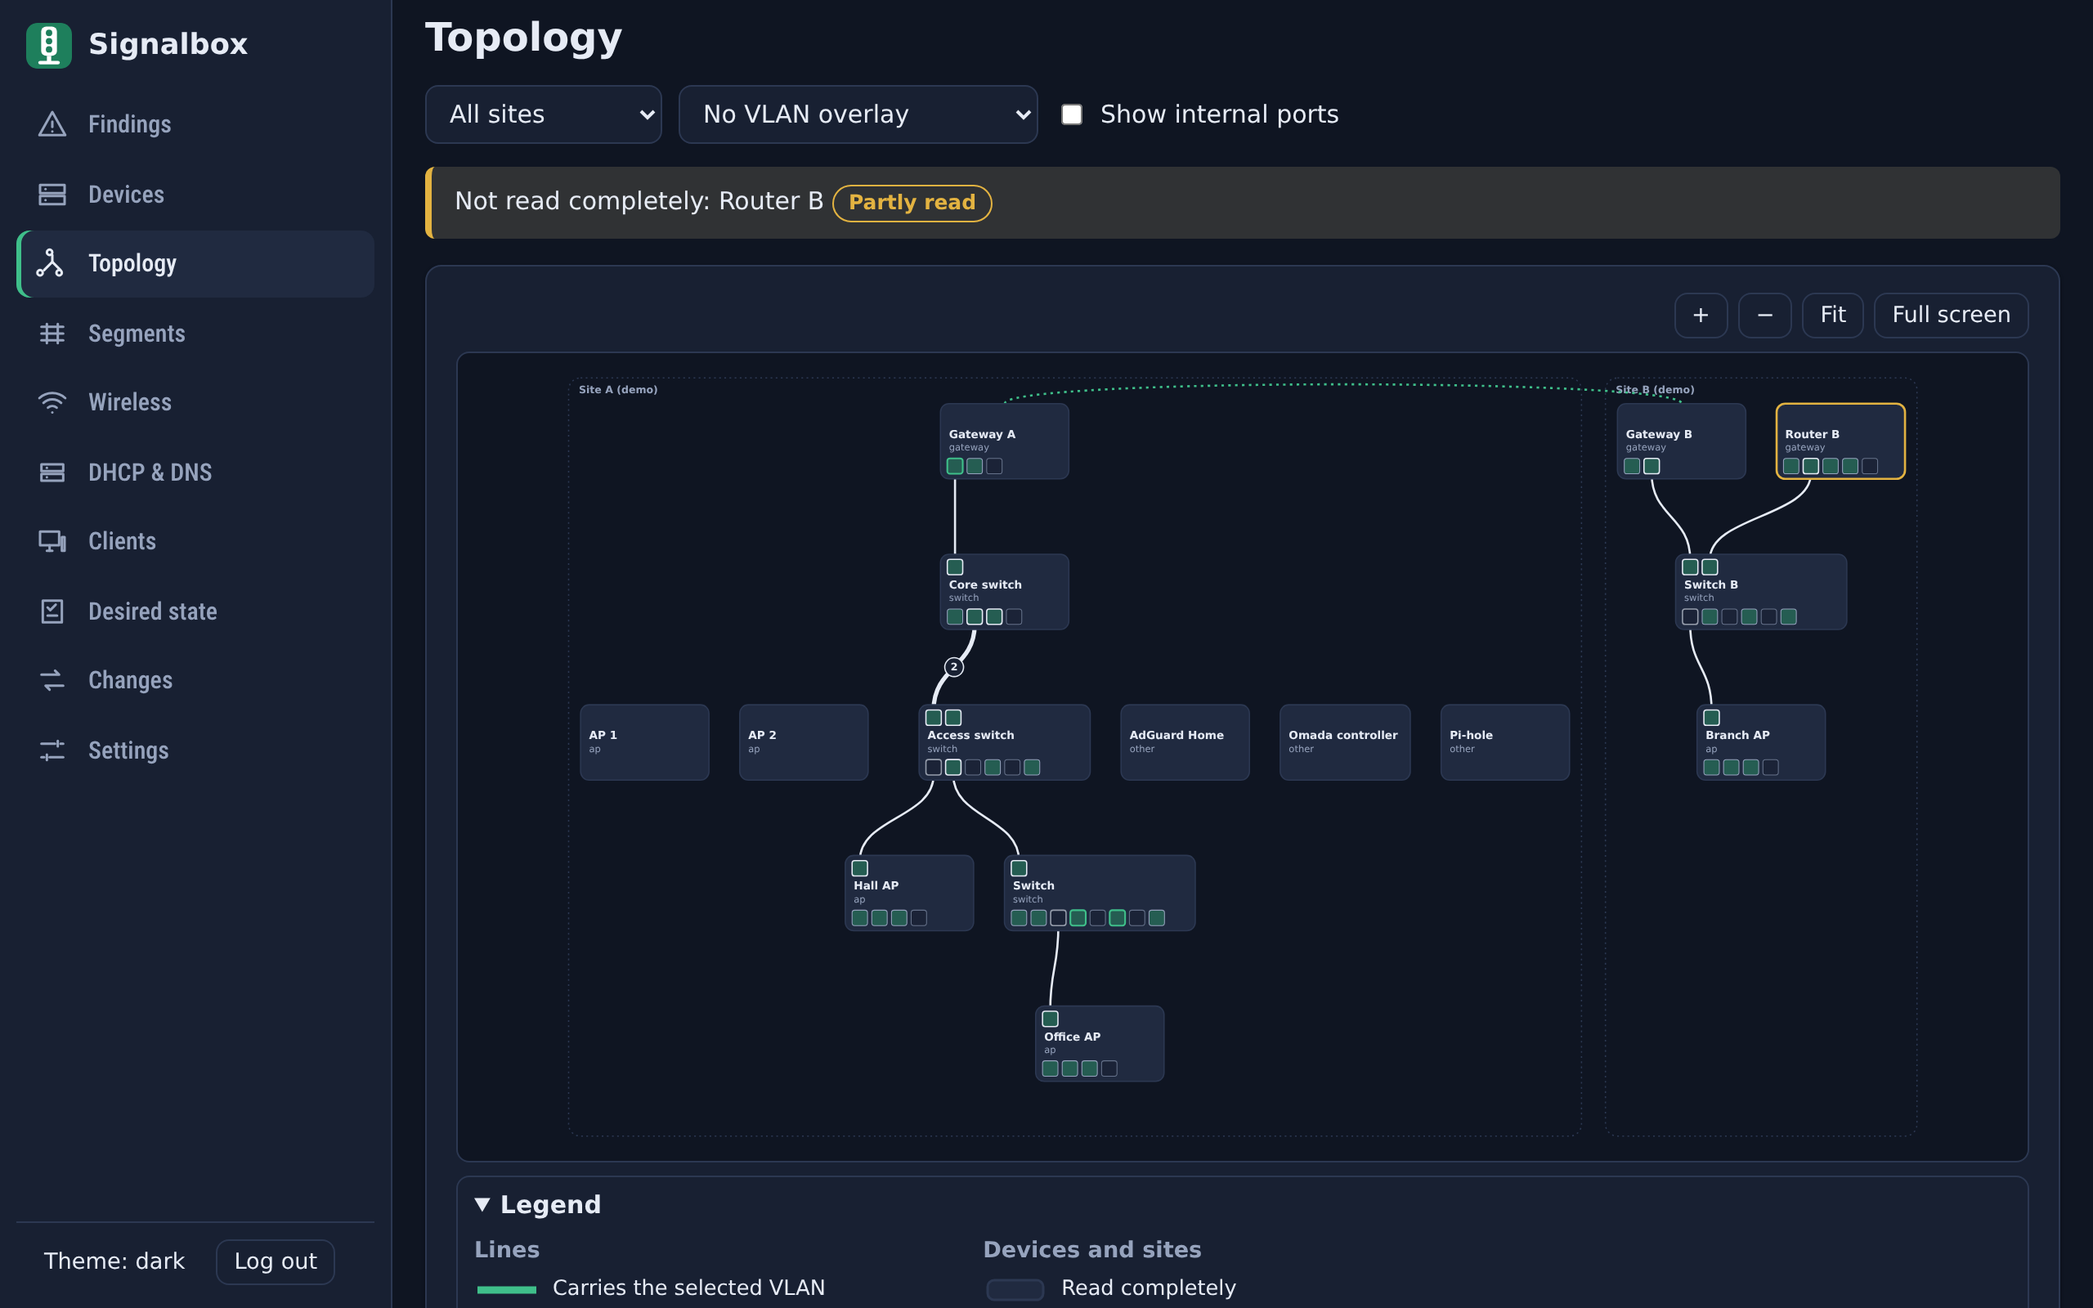
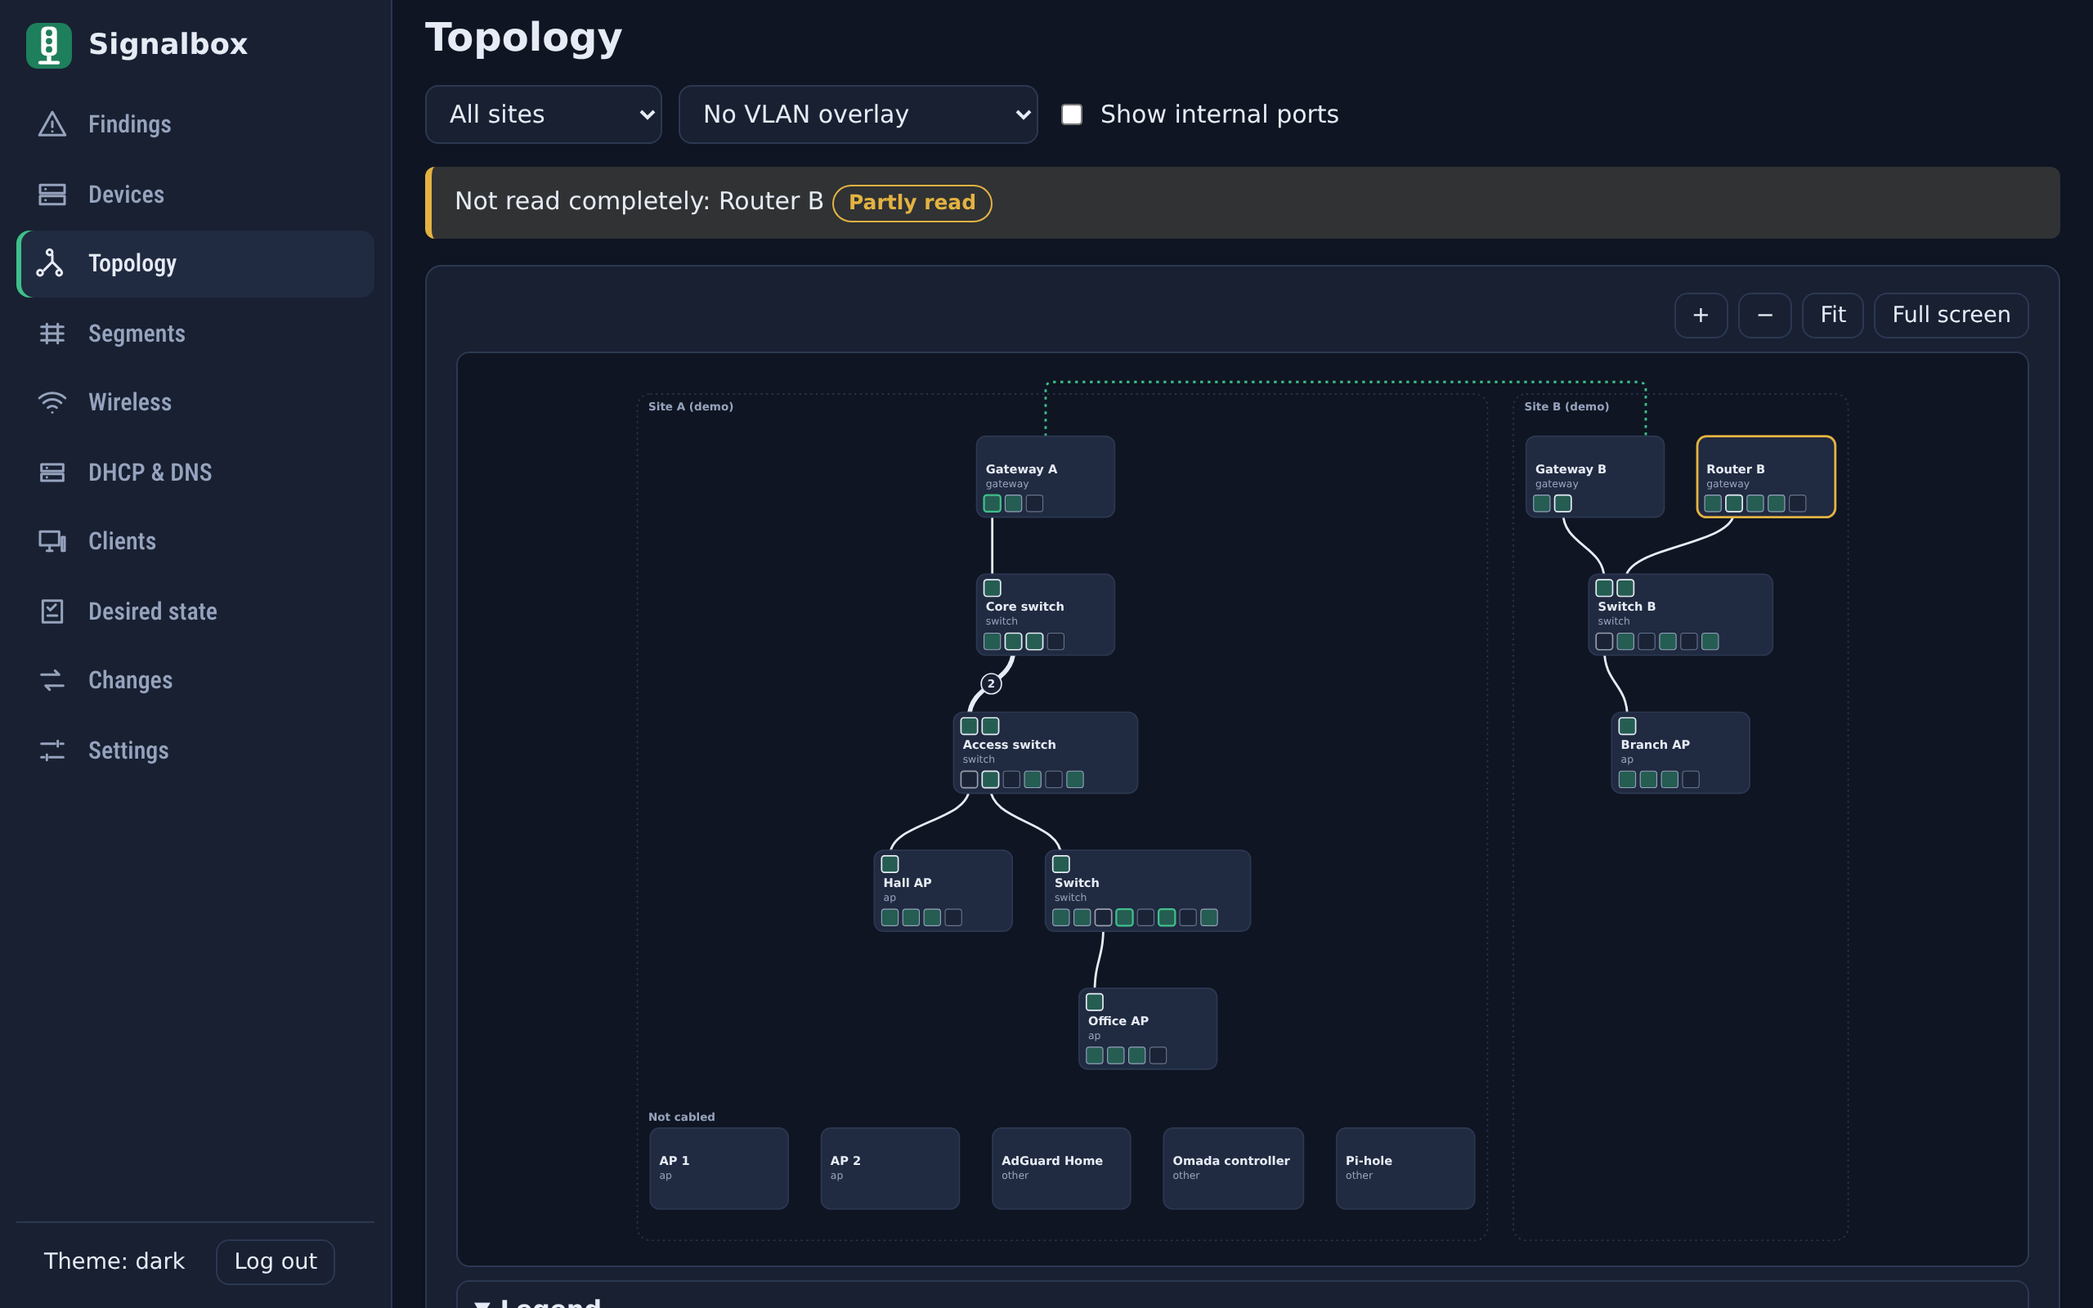
Topology: uncabled strip, VPN lanes above site titles, larger fit (#328)
- Devices without cables go into a labelled "Not cabled" strip at the bottom of their site
- VPN arcs run in lanes above the site frames; their legs avoid the site titles
- Site frames are as wide as their content; Fit may enlarge up to 1.8x
- Layout tests for uncabled grouping and VPN label clearance; screenshots refreshed

diff --git a/src/signalbox/web/static/topolayout.js b/src/signalbox/web/static/topolayout.js
@@ -15,8 +15,7 @@ export const TIER = { remote: 0, gateway: 1, switch: 2, ap: 3, other: 3 };
 const GAP = 36; // between two devices of a layer
 const DUMMY_GAP = 14;
 const DUMMY_W = 6;
-const ROW = 176; // distance of two layers
-const TOP = 36; // room for VPN arcs and site titles above the first layer
+const ROW = 150; // distance of two layers
 const SITE_GAP = 56;
 const SWEEPS = 14;
 
@@ -223,9 +222,40 @@ function layoutSite(siteNodes, rank, pairs, byId) {
   return { cx, min, max, dummies, crossings, layers };
 }
 
-export function layoutTopology({ nodes, edges }) {
+const TITLE_PAD = 24;
+const titleWidth = (name) => Math.round(String(name).length * 7.4 + TITLE_PAD);
+const STRIP_MAX = 900; // widest row of the "not cabled" strip when the cabled tree is narrower
+const STRIP_LABEL = 34; // room for the strip label above its first row
+const LANE = 9; // distance of two VPN lanes above the site frames
+
+// Devices that no cable or tunnel reaches (gateways stay in the tree: they are its top).
+function isUncabled(n, linked) {
+  return !linked.has(n.id) && (TIER[n.role] ?? 3) > 1;
+}
+
+// Rows of the "not cabled" strip, wrapped at maxW.
+function stripRows(items, maxW) {
+  const rows = [];
+  let row = [];
+  let w = 0;
+  for (const n of items) {
+    const add = (row.length ? GAP : 0) + n.w;
+    if (row.length && w + add > maxW) (rows.push(row), (row = []), (w = 0));
+    w += (row.length ? GAP : 0) + n.w;
+    row.push(n);
+  }
+  if (row.length) rows.push(row);
+  return rows.map((r) => ({ items: r, w: r.reduce((a, n, i) => a + n.w + (i ? GAP : 0), 0) }));
+}
+
+// siteNames {id: title} only sizes the site titles, which the VPN arcs must stay clear of.
+export function layoutTopology({ nodes, edges, siteNames = {} }) {
   const byId = new Map(nodes.map((n) => [n.id, n]));
-  const rank = assignRanks(nodes, edges);
+  const linked = new Set();
+  for (const e of edges) if (e.a !== e.b && byId.has(e.a) && byId.has(e.b)) (linked.add(e.a), linked.add(e.b));
+  const loose = new Set(nodes.filter((n) => isUncabled(n, linked)).map((n) => n.id));
+  const treeNodes = nodes.filter((n) => !loose.has(n.id));
+  const rank = assignRanks(treeNodes, edges);
   // one pair per two devices, however many cables
   const pairMap = new Map();
   for (const e of [...edges].sort((x, y) => cmp(x.id, y.id))) {
@@ -237,34 +267,86 @@ export function layoutTopology({ nodes, edges }) {
   }
   const pairs = [...pairMap.values()].sort((x, y) => cmp(x.key, y.key));
   const siteIds = [...new Set(nodes.map((n) => n.site || ''))].sort(cmp);
-  const out = { nodes: {}, routes: {}, pairs: pairs.map((p) => ({ key: p.key, a: p.a, b: p.b, edges: p.edges.map((e) => e.id) })), sites: [], width: 0, height: 0, crossings: 0, ranks: 0 };
-  let x0 = 20;
+  const out = { nodes: {}, routes: {}, pairs: pairs.map((p) => ({ key: p.key, a: p.a, b: p.b, edges: p.edges.map((e) => e.id) })), sites: [], vpns: [], width: 0, height: 0, crossings: 0, ranks: 0, frameY: 6, titleY: 24, uncabled: 0 };
+  // tunnels between devices of one layer are drawn as arcs in lanes above the site frames
+  const arcs = edges.filter((e) => e.kind === 'vpn' && byId.has(e.a) && byId.has(e.b) && !loose.has(e.a) && !loose.has(e.b) && rank.get(e.a) === rank.get(e.b));
+  const lanes = arcs.length ? 10 + arcs.length * LANE : 0;
+  const frameY = lanes ? lanes + 4 : 6;
+  const titleY = frameY + 18;
+  const top = frameY + 46;
+  out.frameY = frameY;
+  out.titleY = titleY;
+  const maxH = Math.max(0, ...nodes.map((n) => n.h));
   let maxRank = 0;
+  const parts = [];
   for (const site of siteIds) {
-    const members = nodes.filter((n) => (n.site || '') === site);
+    const members = treeNodes.filter((n) => (n.site || '') === site);
     const sitePairs = pairs.filter((p) => (byId.get(p.a).site || '') === site && (byId.get(p.b).site || '') === site);
-    const lay = layoutSite(members, rank, sitePairs, byId);
-    const dx = x0 - lay.min;
+    const lay = members.length ? layoutSite(members, rank, sitePairs, byId) : { cx: new Map(), min: 0, max: 0, dummies: new Map(), crossings: 0 };
+    for (const n of members) maxRank = Math.max(maxRank, rank.get(n.id));
+    const treeW = members.length ? lay.max - lay.min : 0;
+    const items = nodes.filter((n) => loose.has(n.id) && (n.site || '') === site).sort((x, y) => cmp(`${x.role}\u0000${x.name || ''}\u0000${x.id}`, `${y.role}\u0000${y.name || ''}\u0000${y.id}`));
+    const rows = stripRows(items, Math.max(treeW, STRIP_MAX));
+    const stripW = Math.max(0, ...rows.map((r) => r.w));
+    const title = titleWidth(siteNames[site] || site);
+    parts.push({ site, members, sitePairs, lay, treeW, rows, w: Math.max(treeW, stripW, title) });
+  }
+  const treeBottom = treeNodes.length ? top + maxRank * ROW + maxH : top - STRIP_LABEL;
+  const stripTop = treeBottom + 40;
+  let x0 = 20;
+  let bottom = treeBottom;
+  for (const part of parts) {
+    const { site, members, sitePairs, lay, rows } = part;
+    const dx = x0 + (part.w - part.treeW) / 2 - lay.min;
     for (const n of members) {
       const r = rank.get(n.id);
-      maxRank = Math.max(maxRank, r);
-      out.nodes[n.id] = { x: lay.cx.get(n.id) - n.w / 2 + dx, y: TOP + r * ROW, w: n.w, h: n.h, rank: r, site };
+      out.nodes[n.id] = { x: lay.cx.get(n.id) - n.w / 2 + dx, y: top + r * ROW, w: n.w, h: n.h, rank: r, site };
     }
     for (const p of sitePairs) {
+      if (loose.has(p.a) || loose.has(p.b)) continue;
       const chain = lay.dummies.get(p.key) || [];
       const upper = rank.get(p.a) <= rank.get(p.b) ? p.a : p.b;
-      const lower = upper === p.a ? p.b : p.a;
       const r0 = rank.get(upper);
-      out.routes[p.key] = chain.map((id, i) => ({ x: lay.cx.get(id) + dx, y: TOP + (r0 + 1 + i) * ROW + byId.get(upper).h / 2 }));
+      out.routes[p.key] = chain.map((id, i) => ({ x: lay.cx.get(id) + dx, y: top + (r0 + 1 + i) * ROW + byId.get(upper).h / 2 }));
       out.routes[p.key].upper = upper;
-      void lower;
     }
-    out.sites.push({ id: site, x: x0 - 14, w: lay.max - lay.min + 28 });
+    let strip = null;
+    if (rows.length) {
+      let y = stripTop + 24;
+      strip = { x: x0, y: stripTop, count: 0 };
+      rows.forEach((row, ri) => {
+        let x = x0 + (part.w - row.w) / 2;
+        for (const n of row.items) {
+          out.nodes[n.id] = { x, y, w: n.w, h: n.h, rank: maxRank + 1 + ri, site };
+          x += n.w + GAP;
+          strip.count++;
+        }
+        y += maxH + 22;
+      });
+      bottom = Math.max(bottom, y - 22);
+      out.uncabled += strip.count;
+    }
+    const sname = siteNames[site] || site;
+    out.sites.push({ id: site, x: x0 - 14, w: part.w + 28, strip, title: { x: x0 - 2, y: titleY - 14, w: titleWidth(sname), h: 20 } });
     out.crossings += lay.crossings;
-    x0 += lay.max - lay.min + SITE_GAP;
+    x0 += part.w + SITE_GAP;
   }
+  // the arcs: the start of a wire is moved sideways when it would run through a site title
+  const startX = (id) => {
+    const b = out.nodes[id];
+    let x = b.x + b.w / 2;
+    const t = out.sites.find((s) => s.id === (b.site || ''))?.title;
+    if (t && x > t.x - 8 && x < t.x + t.w + 8) {
+      const right = t.x + t.w + 12;
+      x = right <= b.x + b.w - 10 ? right : Math.max(b.x + 10, t.x - 12);
+    }
+    return x;
+  };
+  [...arcs]
+    .sort((p, q) => Math.abs(out.nodes[q.a].x - out.nodes[q.b].x) - Math.abs(out.nodes[p.a].x - out.nodes[p.b].x) || cmp(p.id, q.id))
+    .forEach((e, i) => out.vpns.push({ id: e.id, a: e.a, b: e.b, ax: startX(e.a), bx: startX(e.b), y: 10 + i * LANE, ay: out.nodes[e.a].y, by: out.nodes[e.b].y }));
   out.width = Math.max(320, x0 - SITE_GAP + 20);
-  out.height = TOP + maxRank * ROW + Math.max(0, ...nodes.map((n) => n.h)) + 70;
+  out.height = bottom + 40;
   out.ranks = maxRank + 1;
   return out;
 }

diff --git a/src/signalbox/web/static/views/topology.js b/src/signalbox/web/static/views/topology.js
@@ -67,6 +67,7 @@ function drawGraph(data, nodes, onPort, siteNames) {
   const sized = nodes.map((n) => ({ id: n.id, name: n.name, role: n.role, site: n.site_id || '', w: Math.max(150, ports.get(n.id).length * (PORT + PORT_GAP) + 16, n.name.length * 8 + 24), h: BOX_H }));
   const lay = layoutTopology({
     nodes: sized,
+    siteNames,
     edges: [...cables, ...tunnels].map((e) => ({ id: e.id, a: e.a.device_id, b: e.b.device_id, kind: e.kind, up: e.a.uplink && !e.b.uplink ? 'a' : e.b.uplink && !e.a.uplink ? 'b' : null })),
   });
   const rankOf = (id) => lay.nodes[id].rank;
@@ -105,7 +106,13 @@ function drawGraph(data, nodes, onPort, siteNames) {
   place(vp, frameLayer, edgeLayer, nodeLayer, markLayer);
   if (lay.sites.length > 1) {
     for (const site of lay.sites) {
-      place(frameLayer, s('rect', { x: String(site.x), y: '6', width: String(site.w), height: String(lay.height - 12), rx: '14', class: 'site-frame', 'data-testid': 'topo-site' }), s('text', { x: String(site.x + 12), y: '24', class: 'site-name' }, siteNames[site.id] || site.id));
+      place(frameLayer, s('rect', { x: String(site.x), y: String(lay.frameY), width: String(site.w), height: String(lay.height - lay.frameY - 6), rx: '14', class: 'site-frame', 'data-testid': 'topo-site' }), s('text', { x: String(site.x + 12), y: String(lay.titleY), class: 'site-name' }, siteNames[site.id] || site.id));
+    }
+  }
+  // the devices no cable reaches sit in a labelled strip at the bottom of their site
+  for (const site of lay.sites) {
+    if (site.strip) {
+      place(frameLayer, s('text', { x: String(site.x + 12), y: String(site.strip.y + 16), class: 'strip-name', 'data-testid': 'topo-uncabled' }, t('topology.notCabled')));
     }
   }
   const links = new Map(nodes.map((n) => [n.id, { edges: [], near: new Set() }]));
@@ -115,6 +122,7 @@ function drawGraph(data, nodes, onPort, siteNames) {
     links.get(a).near.add(b);
     links.get(b).near.add(a);
   };
+  const vpnArc = new Map(lay.vpns.map((v) => [v.id, v]));
   // tunnels: an arc over the boxes, or a wire down from an unmanaged site
   for (const e of tunnels) {
     const ba = lay.nodes[e.a.device_id];
@@ -125,6 +133,11 @@ function drawGraph(data, nodes, onPort, siteNames) {
       const [hi, lo] = rankOf(e.a.device_id) < rankOf(e.b.device_id) ? [ba, bb] : [bb, ba];
       const key = [e.a.device_id, e.b.device_id].sort().join('|');
       d = smooth([{ x: hi.x + hi.w / 2, y: hi.y + BOX_H }, ...(lay.routes[key] || []), { x: lo.x + lo.w / 2, y: lo.y }]);
+    } else if (vpnArc.has(e.id)) {
+      const v = vpnArc.get(e.id);
+      const r = 8;
+      const dir = v.bx > v.ax ? 1 : -1;
+      d = `M${v.ax},${v.ay} V${v.y + r} Q${v.ax},${v.y} ${v.ax + dir * r},${v.y} H${v.bx - dir * r} Q${v.bx},${v.y} ${v.bx},${v.y + r} V${v.by}`;
     } else {
       const ax = ba.x + ba.w / 2;
       const bx = bb.x + bb.w / 2;

diff --git a/src/signalbox/web/static/style.css b/src/signalbox/web/static/style.css
@@ -194,7 +194,7 @@ details.group > summary h2 { display: inline; }
 .rule p { margin: 6px 0 0; }
 
 /* topology */
-.topo-wrap { position: relative; height: 62vh; min-height: 320px; overflow: hidden; touch-action: none; border: 1px solid var(--border); border-radius: 8px; background: var(--bg); }
+.topo-wrap { position: relative; height: 70vh; min-height: 320px; overflow: hidden; touch-action: none; border: 1px solid var(--border); border-radius: 8px; background: var(--bg); }
 .topo-card.full { position: fixed; inset: 0; z-index: 50; margin: 0; border-radius: 0; display: flex; flex-direction: column; overflow: auto; background: var(--surface); }
 .topo-card.full .topo-wrap { height: auto; flex: 1 1 auto; min-height: 200px; }
 .topo-card:fullscreen { display: flex; flex-direction: column; overflow: auto; background: var(--surface); }
@@ -212,6 +212,7 @@ svg.topo { display: block; font-family: var(--font); }
 .topo .role { fill: var(--muted); font-size: 11px; }
 .topo .site-frame { fill: none; stroke: var(--border); stroke-width: 1.5; stroke-dasharray: 2 4; }
 .topo .site-name { fill: var(--muted); font-size: 12px; font-weight: 700; }
+.topo .strip-name { fill: var(--muted); font-size: 12px; font-weight: 700; }
 .topo .port { fill: var(--surface); stroke: var(--muted); stroke-width: 1; cursor: pointer; }
 .topo .port.up { fill: color-mix(in srgb, var(--ok) 35%, var(--surface)); }
 .topo .port.down { opacity: .6; }

diff --git a/src/signalbox/web/static/topozoom.js b/src/signalbox/web/static/topozoom.js
@@ -1,5 +1,7 @@
 // Zoom and pan of the topology drawing (#303): wheel, drag, pinch, and calls for the buttons.
 // The picture is one group with a transform attribute (no inline styles).
+// Fit may enlarge a small drawing up to this factor, so the labels stay readable on a wide canvas.
+const MAX_FIT = 1.8;
 const clamp = (x, lo, hi) => Math.min(hi, Math.max(lo, x));
 
 export function attachZoom(svg, vp, size) {
@@ -14,7 +16,7 @@ export function attachZoom(svg, vp, size) {
     if (!r.width || !r.height) {
       Object.assign(v, { k: 1, x: 0, y: 0 });
     } else {
-      v.k = clamp(Math.min(1, (r.width - 24) / size.width, (r.height - 24) / size.height), 0.1, 1);
+      v.k = clamp(Math.min(MAX_FIT, (r.width - 24) / size.width, ((r.height - 24) / size.height)), 0.1, MAX_FIT);
       v.x = (r.width - size.width * v.k) / 2;
       v.y = 12;
     }

diff --git a/tests/test_topology_layout.py b/tests/test_topology_layout.py
@@ -28,10 +28,14 @@ def cable(a: str, b: str, up: str | None = None, n: int = 0) -> dict[str, Any]:
     return {"id": f"{a}-{b}-{n}", "a": a, "b": b, "kind": "cable", "up": up}
 
 
-def run(nodes: list[dict[str, Any]], edges: list[dict[str, Any]]) -> dict[str, Any]:
+def run(
+    nodes: list[dict[str, Any]],
+    edges: list[dict[str, Any]],
+    site_names: dict[str, str] | None = None,
+) -> dict[str, Any]:
     done = subprocess.run(
         [str(NODE), str(SCRIPT)],
-        input=json.dumps({"nodes": nodes, "edges": edges}),
+        input=json.dumps({"nodes": nodes, "edges": edges, "siteNames": site_names or {}}),
         capture_output=True,
         text=True,
         check=True,
@@ -149,3 +153,70 @@ def test_two_sites_side_by_side() -> None:
     xs = sorted(x for x, _y, _w, _h in out["boxes"])
     assert xs[0] < xs[1]
     assert out["ranks"] == {"a": 0, "b": 0, "s": 1}
+
+
+def two_sites() -> tuple[list[dict[str, Any]], list[dict[str, Any]]]:
+    """Two sites with a tunnel between the gateways; site A has devices without any cable."""
+    nodes = [
+        {**dev("gw-a", "Gateway A", "gateway"), "site": "a"},
+        {**dev("sw-a", "Core switch", "switch"), "site": "a"},
+        {**dev("ap-a", "Hall AP", "ap"), "site": "a"},
+        {**dev("gw-b", "Gateway B", "gateway"), "site": "b"},
+    ]
+    for i, role in enumerate(["ap", "ap", "other", "other"]):
+        nodes.append({**dev(f"loose{i}", f"Loose {i}", role), "site": "a"})
+    edges = [
+        cable("gw-a", "sw-a"),
+        cable("sw-a", "ap-a"),
+        {"id": "wg", "a": "gw-a", "b": "gw-b", "kind": "vpn", "up": None},
+    ]
+    return nodes, edges
+
+
+def test_uncabled_devices_are_grouped_below_the_cabled_tree() -> None:
+    nodes, edges = two_sites()
+    out = run(nodes, edges, {"a": "Site A", "b": "Site B"})
+    boxes = out["nodes"]
+    cabled = ["gw-a", "sw-a", "ap-a"]
+    loose = [f"loose{i}" for i in range(4)]
+    assert out["uncabled"] == 4
+    # no uncabled device shares a row with a cabled one, and all are below the tree
+    tree_bottom = max(boxes[i]["y"] + boxes[i]["h"] for i in cabled)
+    assert all(boxes[i]["y"] > tree_bottom for i in loose)
+    # the cabled tree keeps one device per layer: its width does not grow with the loose ones
+    assert {out["ranks"][i] for i in cabled} == {0, 1, 2}
+    site_a = next(s for s in out["sites"] if s["id"] == "a")
+    assert site_a["strip"]["count"] == 4
+    for i in loose:  # strip devices stay inside the site frame
+        assert site_a["x"] <= boxes[i]["x"]
+        assert boxes[i]["x"] + boxes[i]["w"] <= site_a["x"] + site_a["w"]
+    # the frame is tight: no empty margin larger than the frame padding beside the content
+    content = [boxes[i] for i in cabled + loose]
+    left = min(b["x"] for b in content)
+    right = max(b["x"] + b["w"] for b in content)
+    assert left - site_a["x"] <= 20
+    assert site_a["x"] + site_a["w"] - right <= 20
+    assert run(nodes, edges)["uncabled"] == 4
+
+
+def test_gateway_without_cable_stays_in_the_tree() -> None:
+    nodes = [{**dev("gw", "Gateway", "gateway")}, dev("x", "Lonely AP", "ap")]
+    out = run(nodes, [])
+    assert out["ranks"]["gw"] == 0
+    assert out["uncabled"] == 1
+
+
+def test_vpn_arc_clears_the_site_titles() -> None:
+    nodes, edges = two_sites()
+    out = run(nodes, edges, {"a": "Site A", "b": "Site B"})
+    (arc,) = out["vpns"]
+    titles = {s["id"]: s["title"] for s in out["sites"]}
+    # the horizontal run is above every site frame and title
+    assert arc["y"] < out["frameY"]
+    assert all(arc["y"] < t["y"] for t in titles.values())
+    # the vertical legs run beside the titles of their own sites, not through them
+    for key, dev_id, site in (("ax", "gw-a", "a"), ("bx", "gw-b", "b")):
+        t = titles[site]
+        assert not t["x"] <= arc[key] <= t["x"] + t["w"], (key, arc[key], t)
+        box = out["nodes"][dev_id]
+        assert box["x"] <= arc[key] <= box["x"] + box["w"]
